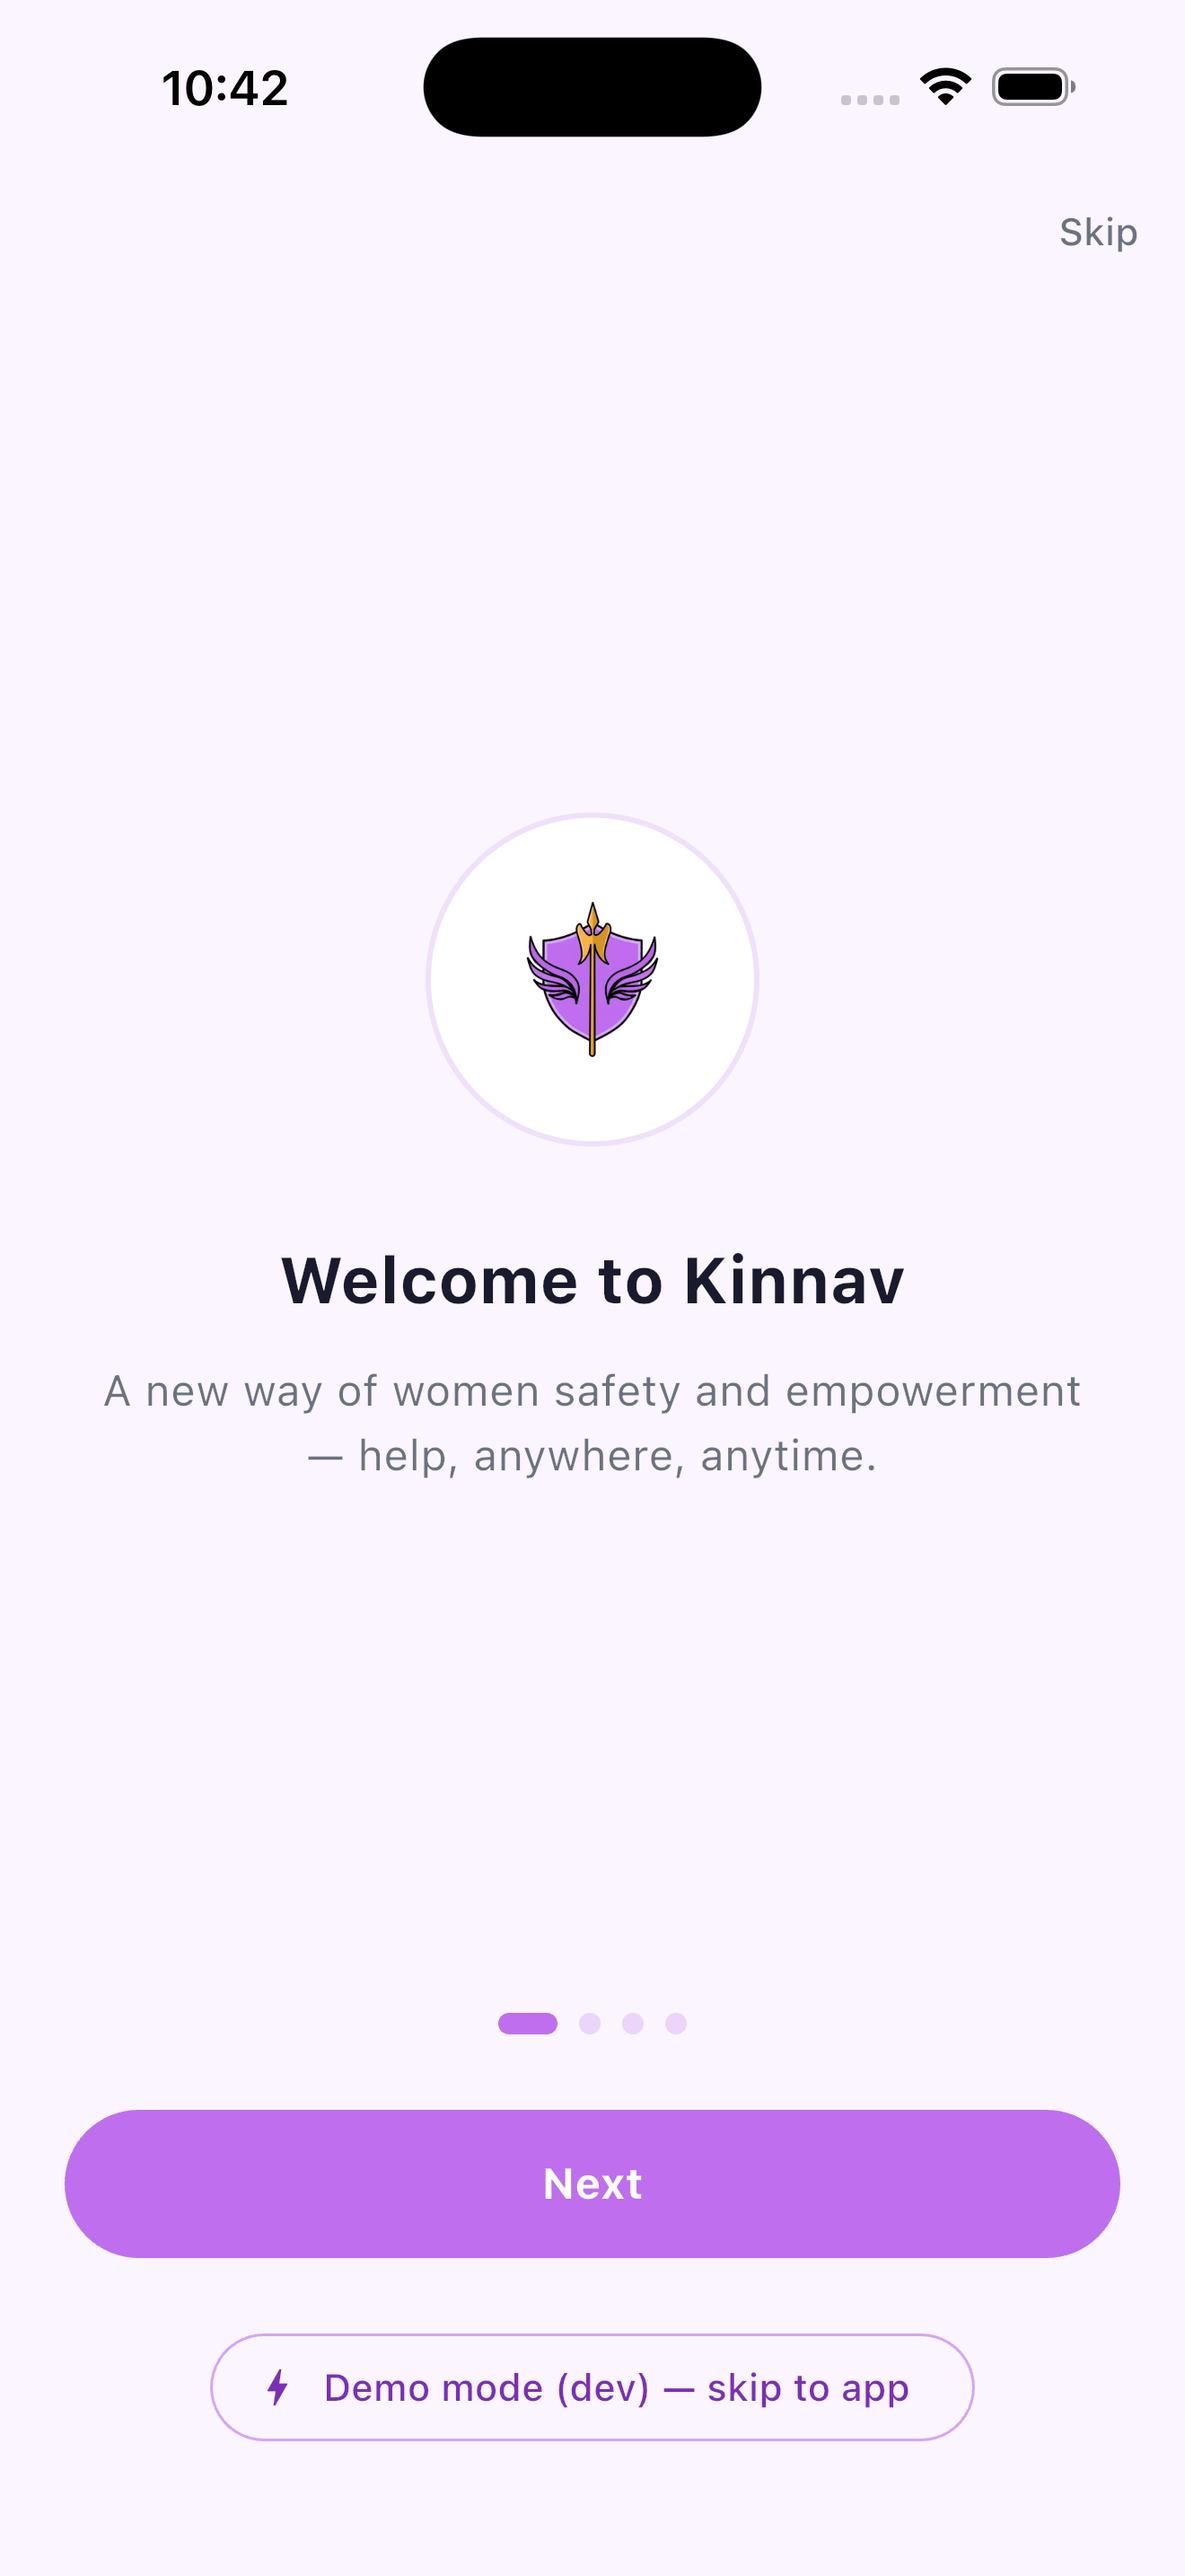
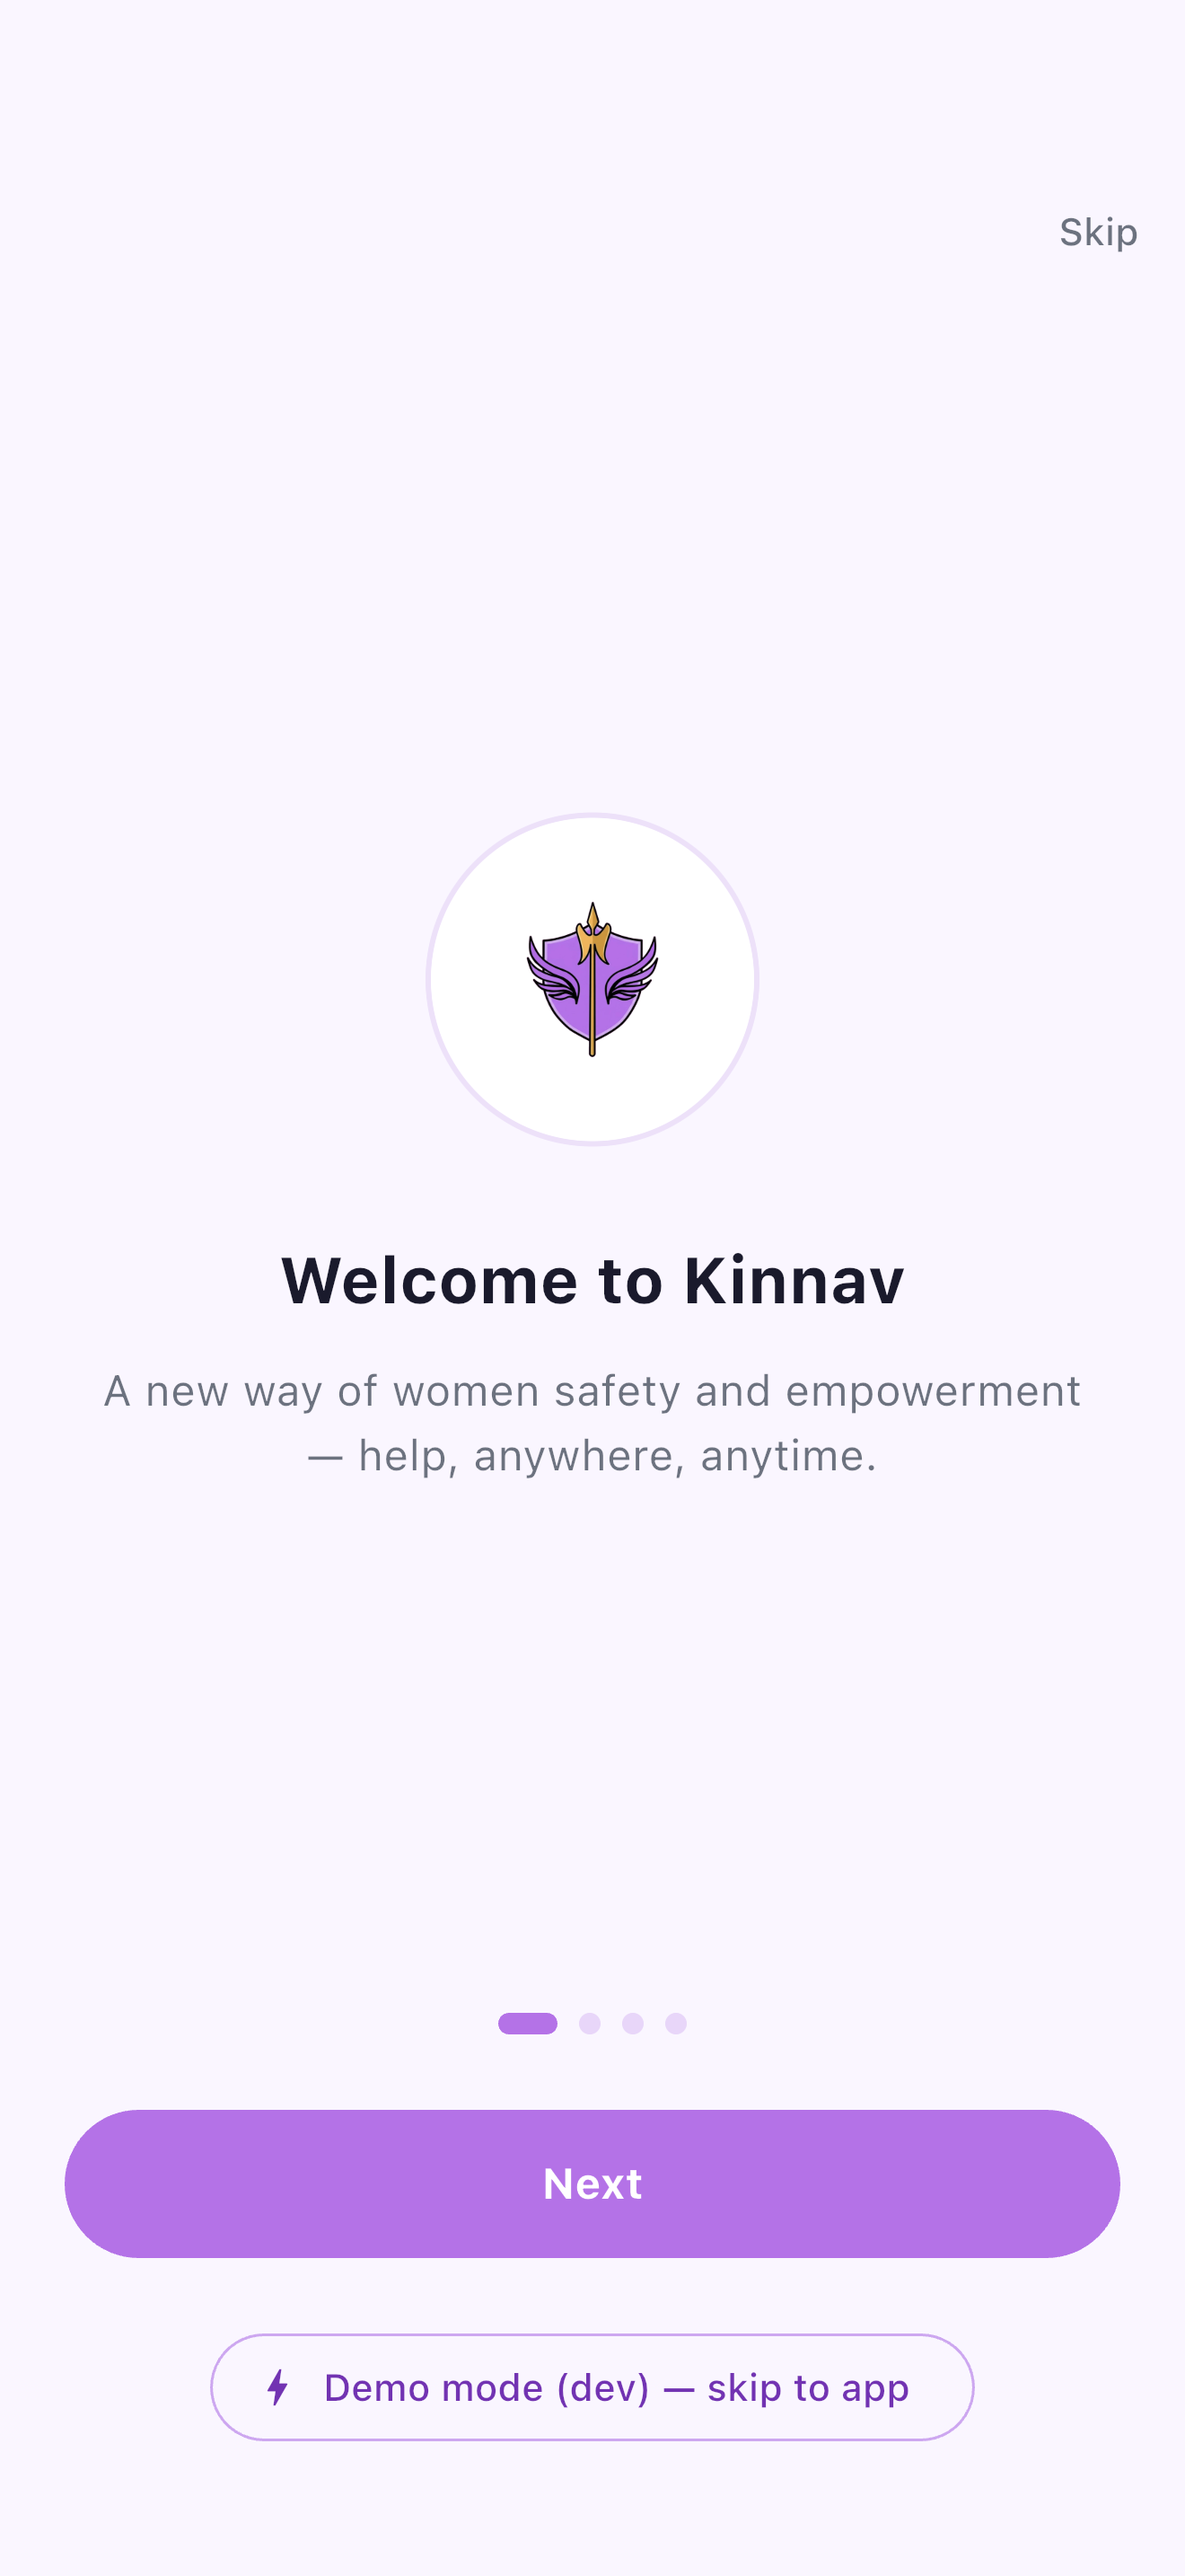
test(app): drive the real app end to end and generate store screenshots
The suite in test/ pumps individual widgets; nothing exercised the shipped
binary. integration_test/app_test.dart now cold-starts the app on a device
and taps through it: onboarding slide by slide, the guardian map, Reach a
Guardian, the drawer, About, the privacy screen, and feedback. It catches
what widget tests cannot — a logo asset missing from the bundle, a drawer
route that does not resolve, state that fails to persist across a restart.

It also closes the iOS screenshot gap. The iOS Simulator has no equivalent of
`adb shell input tap`, so only one iOS screenshot existed and the rest would
have had to be taken by hand. The app now taps itself and screenshots each
stop, so the images cannot drift from what it actually renders.

7/7 pass on iOS, on both the iPhone 17 and the Pro Max. store/screenshots/ios
is regenerated from the Pro Max run at 1320x2868 — exactly the App Store 6.9"
size — and covers seven screens instead of one.

Two things the harness needed. main() installs its own FlutterError.onError,
which trips flutter_test's assertion that a test did not leave the handler
overridden, so launch() restores it. And the debug-only "Demo mode" button
cannot be tapped reliably — it sits behind an IgnorePointer while the root
route swaps — so the demo session is seeded through the same state API that
button calls; every other interaction is a real tap.

Not run on Android: integration_test pulls Android build dependencies absent
[…]

diff --git a/integration_test/app_test.dart b/integration_test/app_test.dart
@@ -1,0 +1,206 @@
+// End-to-end pass over the real app on a real device.
+//
+// The widget tests in test/ pump individual screens; this drives the shipped
+// binary the way a person does — cold start, tap through, assert what is on
+// screen — so it catches wiring the widget tests cannot: a missing asset, a
+// route that does not resolve, state that fails to persist.
+//
+// It doubles as the screenshot generator. The iOS Simulator has no equivalent
+// of `adb shell input tap`, so store screenshots for iOS could not be captured
+// by automation before this; here the app taps itself.
+//
+//   flutter drive --driver=test_driver/integration_test.dart \
+//     --target=integration_test/app_test.dart -d <device>
+//
+// Screenshots land in build/screenshots/. See store/README.md.
+import 'package:flutter/material.dart';
+import 'package:flutter_test/flutter_test.dart';
+import 'package:integration_test/integration_test.dart';
+
+import 'package:kinnav/app_state.dart';
+import 'package:kinnav/config/app_config.dart';
+import 'package:kinnav/main.dart' as app;
+
+void main() {
+  final binding = IntegrationTestWidgetsFlutterBinding.ensureInitialized();
+
+  /// Screenshots need the surface converted on Android; on iOS it is a no-op
+  /// that throws, so failures here must not fail the test.
+  Future<void> shoot(String name) async {
+    try {
+      await binding.convertFlutterSurfaceToImage();
+    } catch (_) {
+      // iOS, or already converted.
+    }
+    await binding.takeScreenshot(name);
+  }
+
+  /// Starts the real app and hands error reporting back to the test harness.
+  ///
+  /// main() installs its own FlutterError.onError so crashes reach the
+  /// analytics boundary. Left in place that trips flutter_test's assertion
+  /// that a test did not leave the handler overridden, which surfaces as a
+  /// confusing failure unrelated to whatever is being asserted.
+  Future<void> launch(WidgetTester tester) async {
+    final harnessOnError = FlutterError.onError;
+    app.main();
+    await tester.pumpAndSettle(const Duration(seconds: 5));
+    FlutterError.onError = harnessOnError;
+  }
+
+  group('Kinnav end to end', () {
+    testWidgets('cold start lands on onboarding with the brand mark',
+        (tester) async {
+      await launch(tester);
+
+      // A fresh install must not skip onboarding.
+      expect(find.text('Welcome to Kinnav'), findsOneWidget);
+      // The mark is an asset, so this fails if the asset is missing from the
+      // bundle — something no widget test catches.
+      expect(
+        find.byWidgetPredicate((w) =>
+            w is Image &&
+            w.image is AssetImage &&
+            (w.image as AssetImage).assetName.contains('kinnav_icon')),
+        findsOneWidget,
+      );
+      await shoot('01-welcome');
+    });
+
+    testWidgets('walks onboarding, reaches the map, and opens the menu',
+        (tester) async {
+      await launch(tester);
+
+      // Page through the walkthrough rather than skipping, so every slide is
+      // exercised and its copy asserted.
+      for (final title in [
+        'Press a button',
+        'Guardians stay with you',
+        'Grow & get rewarded',
+      ]) {
+        await tester.tap(find.text('Next'));
+        await tester.pumpAndSettle();
+        expect(find.text(title), findsOneWidget);
+      }
+
+      // Last slide completes onboarding.
+      await tester.tap(find.text('Get Started'));
+      await tester.pumpAndSettle(const Duration(seconds: 3));
+      expect(appState.onboarded, isTrue);
+
+      // Real sign-in needs a network round trip. The debug-only "Demo mode"
+      // button does the same thing, but the harness cannot tap it — it sits
+      // behind an IgnorePointer during the route swap — so seed the session
+      // through the state API it calls. The screens themselves are still
+      // driven by real taps below.
+      await appState.enterDemoMode();
+      await tester.pumpAndSettle(const Duration(seconds: 5));
+
+      expect(find.text('CALL GUARDIANS'), findsOneWidget);
+      await shoot('02-guardian-map');
+
+      await tester.tap(find.byIcon(Icons.menu));
+      await tester.pumpAndSettle();
+      expect(find.text('Contact Us'), findsOneWidget);
+      await shoot('03-menu');
+    });
+
+    testWidgets('reach-a-guardian offers every call type', (tester) async {
+      await launch(tester);
+      await _enterDemo(tester);
+
+      await tester.tap(find.text('CALL GUARDIANS'));
+      await tester.pumpAndSettle(const Duration(seconds: 2));
+
+      for (final label in ['Voice Call', 'Video Call', 'Emergency']) {
+        expect(find.text(label), findsOneWidget);
+      }
+      await shoot('04-reach-a-guardian');
+    });
+
+    testWidgets('About shows the support address the stores publish',
+        (tester) async {
+      await launch(tester);
+      await _enterDemo(tester);
+
+      await _openFromMenu(tester, 'About Us');
+
+      await tester.dragUntilVisible(
+        find.text(AppConfig.supportEmail),
+        find.byType(Scrollable).first,
+        const Offset(0, -300),
+      );
+      await tester.pumpAndSettle();
+
+      // The listing's support URL and the app must name the same inbox.
+      expect(find.text(AppConfig.supportEmail), findsOneWidget);
+      expect(AppConfig.supportEmail, 'support@kinnav.com');
+      await shoot('05-about');
+    });
+
+    testWidgets('the legal screens link the published policy', (tester) async {
+      await launch(tester);
+      await _enterDemo(tester);
+
+      await _openFromMenu(tester, 'About Us');
+
+      await tester.dragUntilVisible(
+        find.text('Privacy Policy'),
+        find.byType(Scrollable).first,
+        const Offset(0, -300),
+      );
+      await tester.tap(find.text('Privacy Policy'));
+      await tester.pumpAndSettle(const Duration(seconds: 2));
+
+      // A reviewer opening the listing's policy URL must see the same document
+      // the app points at, so the button has to be present.
+      expect(find.textContaining('kinnav.com'), findsWidgets);
+      expect(find.textContaining('pending legal review'), findsNothing);
+      await shoot('06-privacy');
+    });
+
+    testWidgets('feedback refuses an empty submission', (tester) async {
+      await launch(tester);
+      await _enterDemo(tester);
+
+      await tester.tap(find.byIcon(Icons.menu));
+      await tester.pumpAndSettle();
+      await tester.tap(find.text('Feedback'));
+      await tester.pumpAndSettle(const Duration(seconds: 2));
+
+      await tester.tap(find.text('Send feedback'));
+      await tester.pumpAndSettle();
+
+      // It used to accept anything and silently discard it.
+      expect(find.text('Add a rating or a note first.'), findsOneWidget);
+      await shoot('07-feedback');
+    });
+  });
+}
+
+/// Puts the app on the home map so a test can start from there.
+///
+/// Uses the same state transition the debug "Demo mode" button performs.
+/// Tapping that button is not reliable under the harness (it is briefly
+/// behind an IgnorePointer while the root route swaps), and these tests are
+/// about the screens past sign-in, not about sign-in itself.
+Future<void> _openFromMenu(WidgetTester tester, String item) async {
+  await tester.tap(find.byIcon(Icons.menu));
+  await tester.pumpAndSettle(const Duration(seconds: 2));
+  final entry = find.text(item);
+  expect(entry, findsOneWidget, reason: 'drawer should list "$item"');
+  await tester.ensureVisible(entry);
+  await tester.pumpAndSettle();
+  await tester.tap(entry);
+  // Give the route push time to settle before anything is looked up.
+  await tester.pumpAndSettle(const Duration(seconds: 3));
+  expect(find.byType(Scrollable), findsWidgets,
+      reason: '"$item" should have opened a scrollable screen');
+}
+
+Future<void> _enterDemo(WidgetTester tester) async {
+  await appState.enterDemoMode();
+  await tester.pumpAndSettle(const Duration(seconds: 5));
+  expect(find.text('CALL GUARDIANS'), findsOneWidget,
+      reason: 'demo session should land on the home map');
+}

diff --git a/test_driver/integration_test.dart b/test_driver/integration_test.dart
@@ -1,0 +1,22 @@
+// Driver for integration_test/app_test.dart.
+//
+// Its only job is to write the screenshots the test takes to disk — the test
+// itself runs on the device and cannot reach the host filesystem.
+//
+//   flutter drive --driver=test_driver/integration_test.dart \
+//     --target=integration_test/app_test.dart -d <device>
+import 'dart:io';
+
+import 'package:integration_test/integration_test_driver_extended.dart';
+
+Future<void> main() async {
+  await integrationDriver(
+    onScreenshot: (String name, List<int> bytes, [Map<String, Object?>? _]) async {
+      final file = File('build/screenshots/$name.png');
+      await file.parent.create(recursive: true);
+      await file.writeAsBytes(bytes);
+      stdout.writeln('screenshot: ${file.path}');
+      return true;
+    },
+  );
+}

diff --git a/store/README.md b/store/README.md
@@ -90,6 +90,14 @@ GitHub release or a CI artifact instead of committing them.
 - **Release mode cannot run on the iOS Simulator at all** — Flutter rejects
   it outright (`Release mode is not supported for simulators`). Testing a
   release iOS build requires a physical device.
+- **The end-to-end suite passes on iOS**, 7/7 on both the iPhone 17 and the
+  Pro Max, and produced every screenshot in `screenshots/ios`.
+- **It has not been run on Android.** `integration_test` adds Android build
+  dependencies that were not in the local Gradle cache, and the machine it
+  was authored on had no network, so `flutter drive -d emulator-5554` failed
+  at dependency resolution. Nothing is wrong with the test — run it once on a
+  networked machine and Gradle caches what it needs. Verify with a plain
+  `flutter build apk --debug` first.
 
 ## Android — Google Play
 
@@ -159,29 +167,30 @@ The Android emulator frame is 1080 × 2400, which is 2.22:1 and would be
 rejected. The committed files are cropped to 2:1 by removing the status bar
 and gesture bar — OS chrome rather than app content.
 
-### What is covered, and what is missing
+### Regenerating them
 
-Android has five screens: welcome, guardian map, *Reach a Guardian*, the
-menu, and About. iOS has **only the welcome screen**.
-
-That gap is not an oversight. The captures were automated, and Android can be
-driven with `adb shell input tap`, while the iOS Simulator has no equivalent —
-`simctl` cannot synthesise touches, and the AppleScript route was unavailable
-in that environment. The remaining iOS screenshots have to be taken by tapping
-through the app by hand:
+Both sets come from `integration_test/app_test.dart`, which drives the real
+app and screenshots each stop. Nothing is staged by hand, so the images cannot
+drift from what the app actually renders.
 
 ```bash
-xcrun simctl boot "iPhone 17 Pro Max"
-flutter run -d "iPhone 17 Pro Max"
-# tap "Demo mode (dev) — skip to app", navigate, then per screen:
-xcrun simctl io booted screenshot store/screenshots/ios/0N-name.png
+# iOS — run against the Pro Max: 1320x2868 is the App Store 6.9" size
+flutter drive --driver=test_driver/integration_test.dart \
+  --target=integration_test/app_test.dart -d "iPhone 17 Pro Max"
+
+# Android
+flutter drive --driver=test_driver/integration_test.dart \
+  --target=integration_test/app_test.dart -d emulator-5554
 ```
 
-The App Store wants up to 10 and shows the first 3 in search results; Play
-requires at least 2 and allows 8. Aim to match the Android set so the two
-listings tell the same story.
+Screenshots land in `build/screenshots/`; copy the ones you want into
+`store/screenshots/<platform>/`. Android output is 1080x2400 and must be
+cropped to 2:1 before upload (see below).
 
-### Reproducing the Android set
+The App Store shows the first 3 in search results; Play requires at least 2
+and allows 8.
+
+### Reproducing the Android set by hand
 
 ```bash
 adb install -r build/app/outputs/flutter-apk/app-debug.apk
